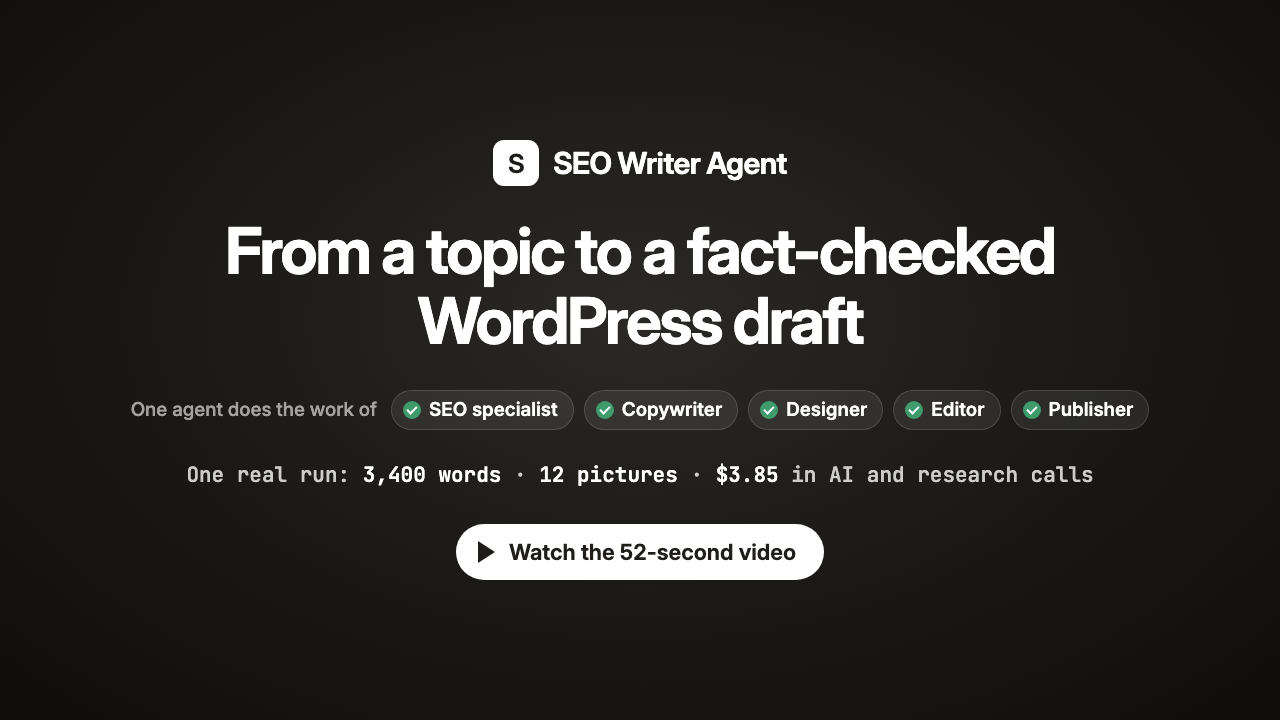
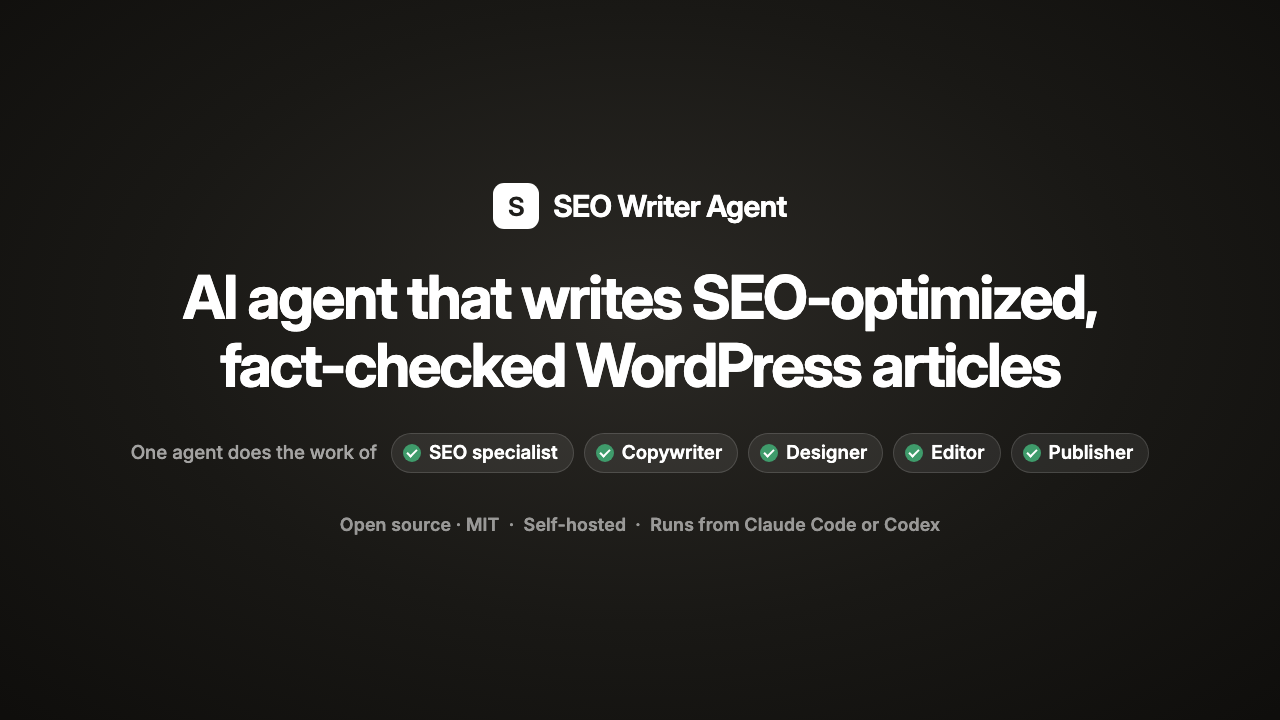
README: a plainer promise, how an article is made and what runs where
The title and the cover now say what it makes: SEO-optimized, fact-checked WordPress articles.
The one-run numbers and the play button go; the video is a link above the intro until it is
embedded. Two diagrams: the steps of a run grouped by the five roles, and the container with its
interfaces, data volume and the services it calls. "Why use this AI writing tool" says the setup
makes it write about your product instead of saying a new install knows nothing.

Changed region(s): [[0.0938, 0.1833, 0.9062, 0.6722], [0.25, 0.7028, 0.75, 0.825]]

diff --git a/README.md b/README.md
@@ -1,51 +1,124 @@
-# SEO Writer Agent: an open-source AI agent that writes SEO articles for WordPress
+# SEO Writer Agent: an open-source AI agent that writes SEO-optimized, fact-checked WordPress articles
 
 [![Release](https://img.shields.io/github/v/release/tymoshenko-dmytro/seo-writer-agent)](https://github.com/tymoshenko-dmytro/seo-writer-agent/releases)
 [![License: MIT](https://img.shields.io/badge/license-MIT-blue)](LICENSE)
 [![Self-hosted: Docker](https://img.shields.io/badge/self--hosted-Docker-2496ED)](#quickstart)
 [![Runs from Claude Code or Codex](https://img.shields.io/badge/Claude_Code_·_Codex-CLI-D97757)](AGENTS.md)
 
-[![SEO Writer Agent in 52 seconds: play the video](docs/promo.png)](https://github.com/tymoshenko-dmytro/seo-writer-agent/releases/tag/v1.0.0)
+**[▶ Watch the 52-second video](https://github.com/tymoshenko-dmytro/seo-writer-agent/releases/tag/v1.0.0)**
+
+*From a topic to a reviewed WordPress article in 52 seconds: the five roles, the review you
+control, and how to run it. Sound on.*
 
 One blog article usually needs five people: an SEO specialist, a copywriter, a designer, an editor
 and someone to publish it. SEO Writer Agent does the work of all five. Give it a topic, and you get
-a researched article with its sources, charts and a cover, reviewed by three AI models and waiting
-as a draft in your WordPress. Every fact it states has a source, every change it makes can be
-undone, and nothing is published until you send it.
-
-One real run: a 3,400-word article with 12 pictures, written and reviewed in 30 minutes for $3.85
-in AI and research calls (plus your Ahrefs and Winston plan units). See
-[what an article costs](#what-an-article-costs).
+an SEO-optimized article for your WordPress: researched, with a source for every fact, charts and
+a cover, and reviewed by three AI models. Every change it makes can be undone, and the article goes
+to WordPress only when you send it.
 
 Built by [Dmytro Tymoshenko](https://www.linkedin.com/in/tymoshenko-dmytro), Head of Growth at
 Palabra.ai, where it writes the company blog.
 
-## The five roles in one run
+## Meet the team: five roles in one agent
+
+![SEO Writer Agent: an AI agent that does the work of an SEO specialist, a copywriter, a designer, an editor and a publisher](docs/promo.png)
 
 | Role | What it does | Works with |
 |---|---|---|
 | **SEO specialist** | Picks the keyword from real search data, opens and measures the pages that rank, and plans the length and structure from them. Writes the meta title, description and FAQ for Yoast, adds internal links from your sitemap, and reports the keyword coverage | Ahrefs, Scrapfly |
 | **Copywriter** | Gathers the facts and the page each one comes from, and writes in your brand voice. About your product it says only what your product facts say, and it follows your editorial rules | Parallel, Claude |
 | **Designer** | Draws charts from the researched numbers, makes infographics and a cover with your logo, and takes screenshots of the products the article discusses, opened from your target country | OpenAI, Scrapfly |
-| **Editor** | Three AI models from two vendors review the draft, and each picture is checked against its caption. Safe fixes are made for you, each one a version you can undo; a change to a fact waits for your decision. A uniqueness check runs before you publish | Claude, OpenAI, Winston AI |
-| **Publisher** | Sends a draft or a live post to WordPress with its Yoast fields, only when a person sends it | WordPress |
+| **Editor** | Three AI models from two vendors review the article, and each picture is checked against its caption. Safe fixes are made for you, each one a version you can undo; a change to a fact waits for your decision. A uniqueness check runs before you publish | Claude, OpenAI, Winston AI |
+| **Publisher** | Sends the article to WordPress as a draft or a live post, with its Yoast fields, only when a person sends it | WordPress |
 
-![The sample article's review: two changes the machine made, two that wait for a person](docs/screenshot.png)
+## How an article is made
 
-## Why use it instead of an AI writing tool
+```mermaid
+flowchart LR
+    T([Your topic]) --> K
+
+    subgraph SEO["SEO specialist"]
+        K["Keyword research<br/>the keyword, the pages that rank"] --> B["Brief<br/>outline, sections, questions"]
+    end
+    subgraph COPY["Copywriter"]
+        R["Deep research<br/>facts with their sources"] --> W["Writing<br/>your brand voice, every fact cited"]
+    end
+    subgraph DES["Designer"]
+        P["Pictures<br/>charts, infographics,<br/>screenshots, cover"]
+    end
+    subgraph ED["Editor"]
+        U["Keyword report and<br/>uniqueness check"] --> Q["Review by three AI models<br/>and a check of every picture"]
+        Q --> S["Safe fixes made,<br/>each a version you can undo"]
+        Q --> Y{{"Changes to facts<br/>wait for you"}}
+    end
+    subgraph PUB["Publisher"]
+        WP(["WordPress<br/>draft or live post"])
+    end
+
+    B --> R
+    W --> P --> U
+    S --> A{{"You accept<br/>and send"}}
+    Y --> A
+    A --> WP
+```
+
+The steps run one after another in a single run; a run takes from several minutes to over an hour,
+most of it in the deep research. The review runs once, not in a loop, and you can run it again
+after your edits. More in [`docs/architecture.md`](docs/architecture.md).
+
+## What runs where
+
+```mermaid
+flowchart TB
+    subgraph YOU["You"]
+        BR["Browser"]
+        CC["Claude Code or Codex"]
+    end
+
+    subgraph BOX["Your server: one Docker container"]
+        UI["Web interface<br/>(Flask, port 5050)"]
+        CLI["cli.py<br/>every action, JSON output"]
+        ENG["Engine<br/>a LangGraph run of the agents,<br/>the review, versions, the cost ledger"]
+        DATA[("Data volume<br/>articles, pictures, versions,<br/>settings, keys, costs")]
+        UI --> ENG
+        CLI --> ENG
+        ENG <--> DATA
+    end
+
+    subgraph EXT["Services, with your own keys"]
+        AN["Anthropic"]
+        OA["OpenAI"]
+        PA["Parallel"]
+        AH["Ahrefs"]
+        SC["Scrapfly"]
+        WI["Winston AI"]
+        WPS["Your WordPress"]
+    end
+
+    BR --> UI
+    CC --> CLI
+    ENG --> AN & OA & PA & AH & SC & WI & WPS
+```
+
+Besides these, it opens only the web pages that the research and the article name. There is no
+account with us and no telemetry.
+
+## Why use this AI writing tool
 
 - **Facts you can check.** Each claim about a third party links to its source. If the research does
   not find a fact, the article does not state it.
 - **You keep the final say.** The machine makes only the safe fixes. Facts, removed pictures and new
-  sections wait for you, and WordPress gets the post only when you send it.
-- **Your server, your keys, your data.** It runs in Docker on your machine. There is no account
-  with us and no telemetry; you pay the AI and data providers directly, and see the cost of each
-  article, step and service.
-- **Any business.** A new install knows nothing about any product. The setup asks for your
-  project's name, site, brand voice, product facts and editorial rules.
+  sections wait for you, and WordPress gets the article only when you send it.
+- **Your server, your keys, your data.** It runs in Docker on your machine. You pay the AI and data
+  providers directly, and see the cost of each article, step and service before and after it runs.
+- **Writes about your product, not a generic one.** At setup you give it your project's name, site,
+  brand voice, product facts and editorial rules, and every article follows them. It suits any
+  business: a software company, an agency, a marketplace.
 - **Your coding agent can run it.** Every action in the web interface is also a command with JSON
   output, and [`AGENTS.md`](AGENTS.md) tells Claude Code or Codex how to install and operate it and
   which steps cost money.
+
+![The sample article's review: two changes the machine made, two that wait for a person](docs/screenshot.png)
 
 ## Quickstart
 
